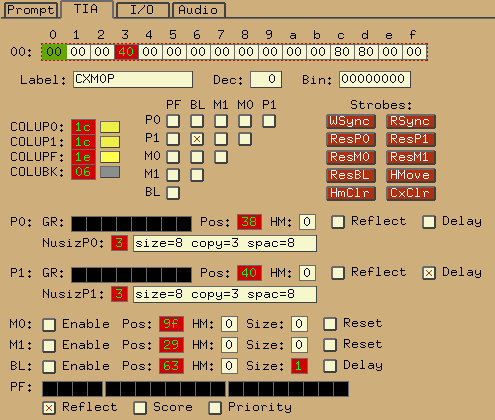
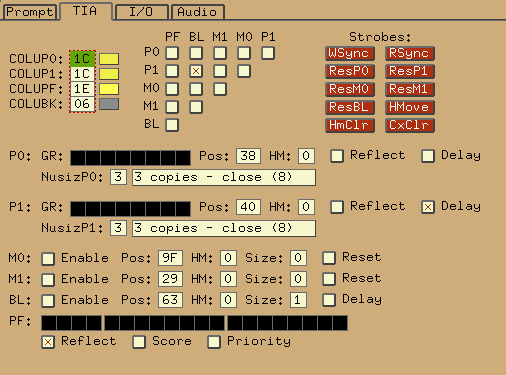
Added 'fixed debugger colors' command to right-click menu of TIA output in the debugger, and updated the debugger documentation.

diff --git a/docs/debugger.html b/docs/debugger.html
@@ -781,6 +781,9 @@ as illustrated:</p>
 	zoom area (further described in part (G).  The zoom area will
 	contain the area centered at the position where the mouse was
 	clicked.</li>
+	<li><b>Toggle fixed debug colors</b>: Toggles fixed debug color mode.
+  Note that after this is toggled, the framebuffer must be updated in some way
+  (step/trace/frame advance) before the new colors are shown.</li>
 </ul>
 
 
